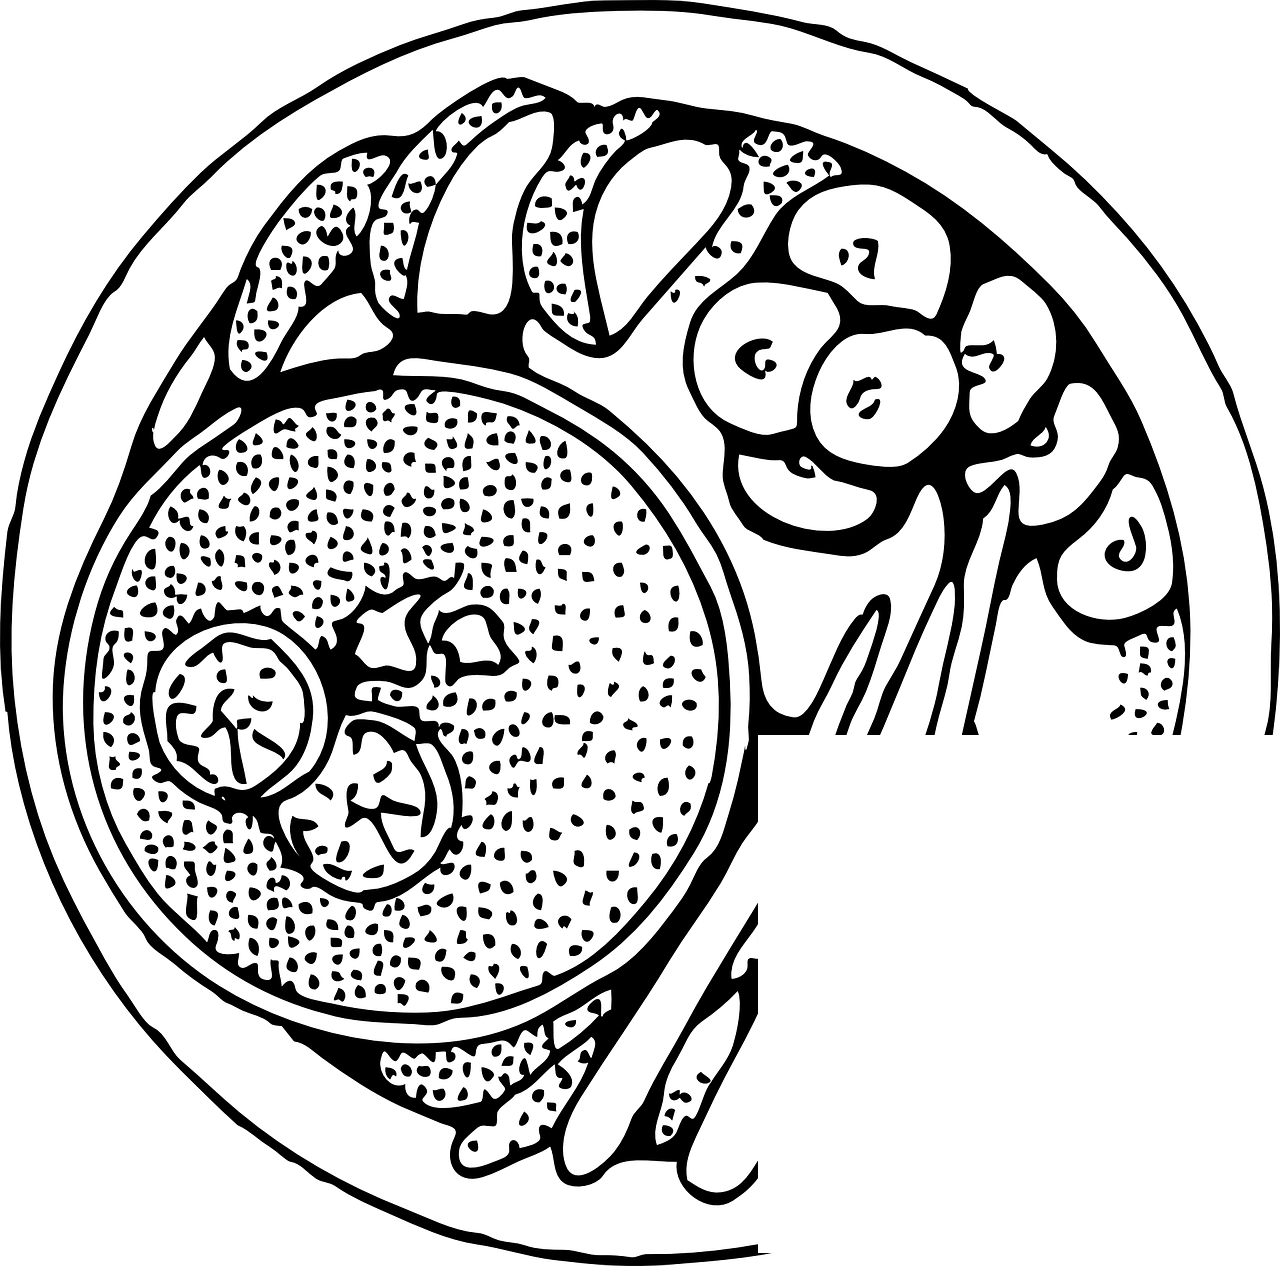
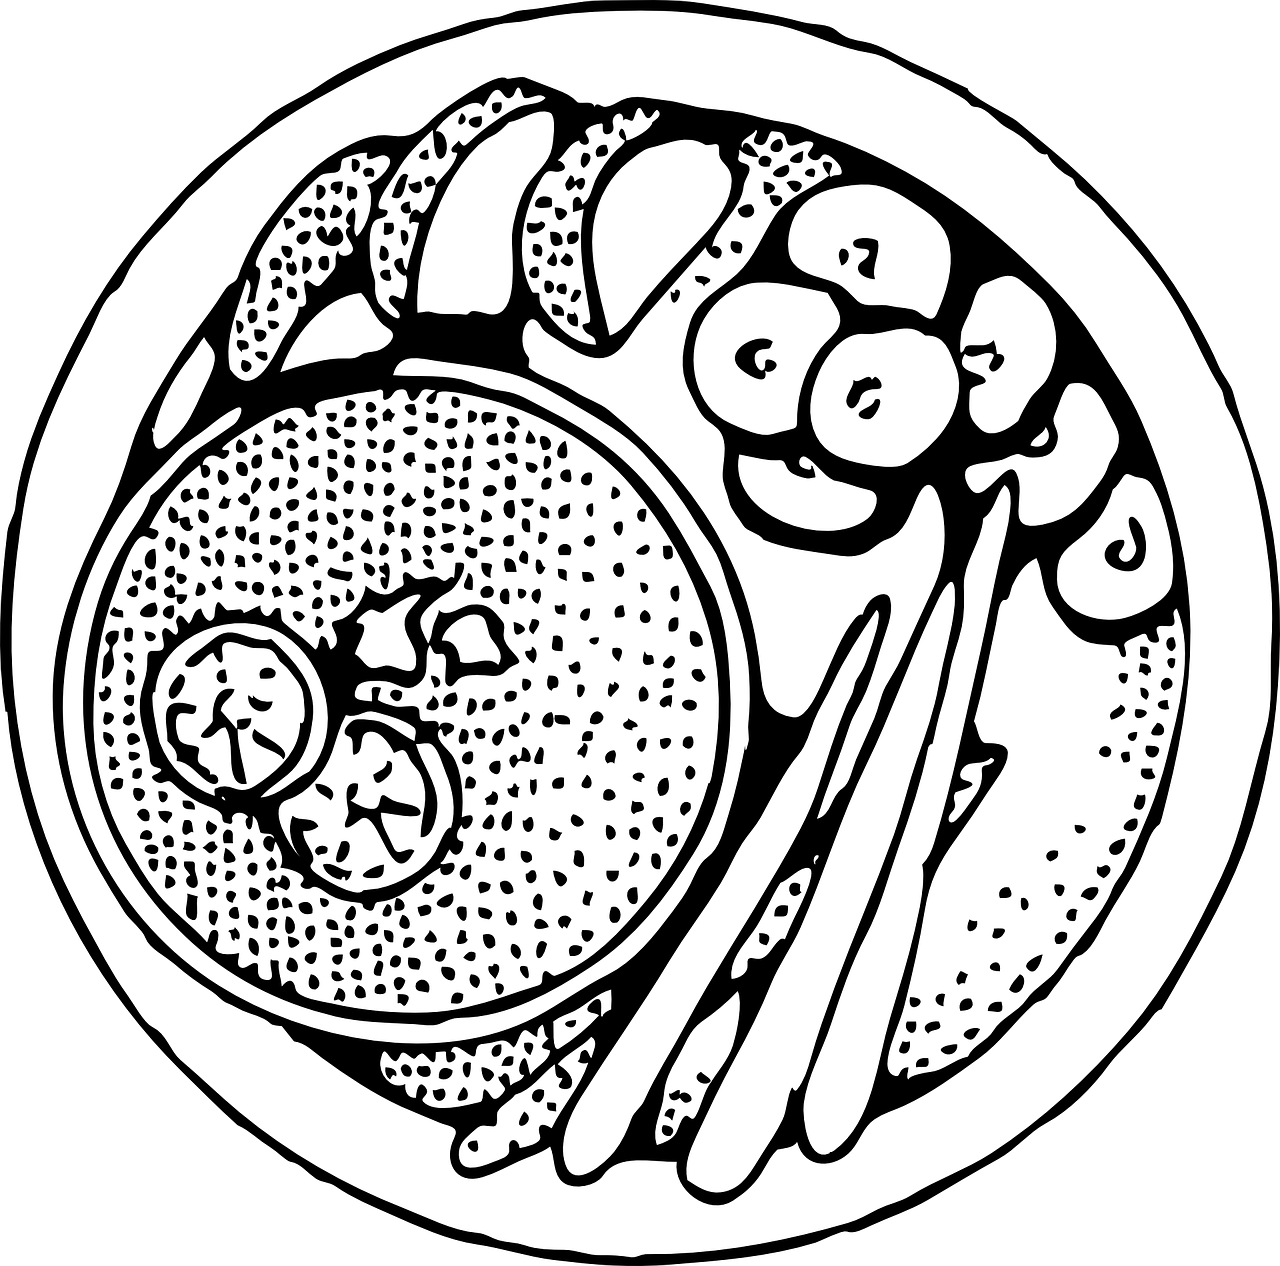
fixed details bug and changed number position in history

diff --git a/lib/views/main_menu_pages/used_and_expired.dart b/lib/views/main_menu_pages/used_and_expired.dart
@@ -225,40 +225,50 @@ class _UsedAndExpiredState extends State<UsedAndExpired> {
                   } else {
                     return Column(
                       children: [
-                        ClipRRect(
-                          borderRadius: BorderRadius.circular(200),
-                          child: SizedBox(
-                            height: 200,
-                            width: 200,
-                            child: Stack(
-                              alignment: Alignment.center,
-                              children: <Widget>[
-                                Container(
-                                  color: Colors.white,
+                        Stack(
+                          alignment: Alignment.bottomCenter,
+                          children: [
+                            ClipRRect(
+                              borderRadius: BorderRadius.circular(200),
+                              child: SizedBox(
+                                height: 200,
+                                width: 200,
+                                child: Stack(
+                                  alignment: Alignment.center,
+                                  children: <Widget>[
+                                    Container(
+                                      color: Colors.white,
+                                    ),
+                                    Align(
+                                      alignment: Alignment.bottomCenter,
+                                      child: Container(
+                                        height: 200 * usedPercent / 100,
+                                        width: 200,
+                                        color: Colors.amber,
+                                      ),
+                                    ),
+                                    const Image(
+                                      image: AssetImage(
+                                          'assets/images/plate1.png'),
+                                      height: 200,
+                                    ),
+                                  ],
                                 ),
-                                Align(
-                                  alignment: Alignment.bottomCenter,
-                                  child: Container(
-                                    height: 200 * usedPercent / 100,
-                                    width: 200,
-                                    color: Colors.amber,
-                                  ),
-                                ),
-                                const Image(
-                                  image: AssetImage('assets/images/plate1.png'),
-                                  height: 200,
-                                ),
-                                Positioned(
-                                  left: 120,
-                                  bottom: 15,
-                                  child: Text(
-                                    "${PantryProxy().countByMonth(monthInt, selectedView)}%",
-                                    style: const TextStyle(fontSize: 55),
-                                  ),
-                                ),
-                              ],
+                              ),
                             ),
-                          ),
+                            Align(
+                              alignment: Alignment.bottomRight,
+                              child: Container(
+                                padding: EdgeInsets.only(right: 20),
+                                child: Text(
+                                  "${PantryProxy().countByMonth(monthInt, selectedView)}%",
+                                  style: const TextStyle(
+                                    fontSize: 55,
+                                  ),
+                                ),
+                              ),
+                            ),
+                          ],
                         ),
                         Container(
                           alignment: Alignment.centerLeft,

diff --git a/lib/views/add_forms/add_new_item_form.dart b/lib/views/add_forms/add_new_item_form.dart
@@ -420,6 +420,7 @@ class _NewItemFormState extends State<NewItemForm> {
                                 expiryDate: _expDateDT,
                                 hasExpiryDate: _hasExpiryDate,
                                 addedDate: DateTime.now().toUtc(),
+                                details: _details.text,
                               );
                               PantryProxy().upsertItem(newItem);
                               setState(() {});
